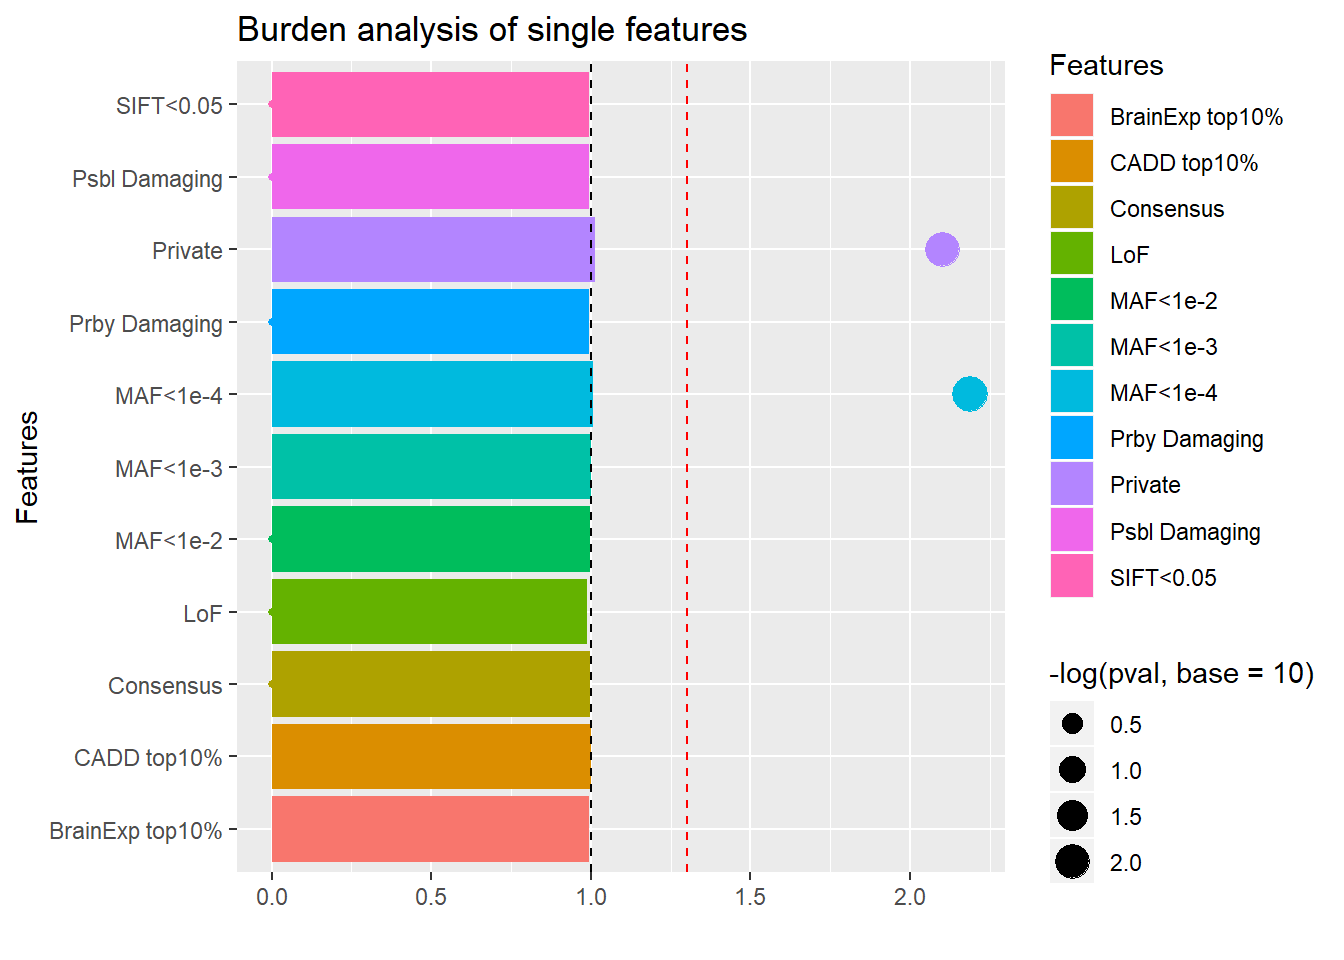
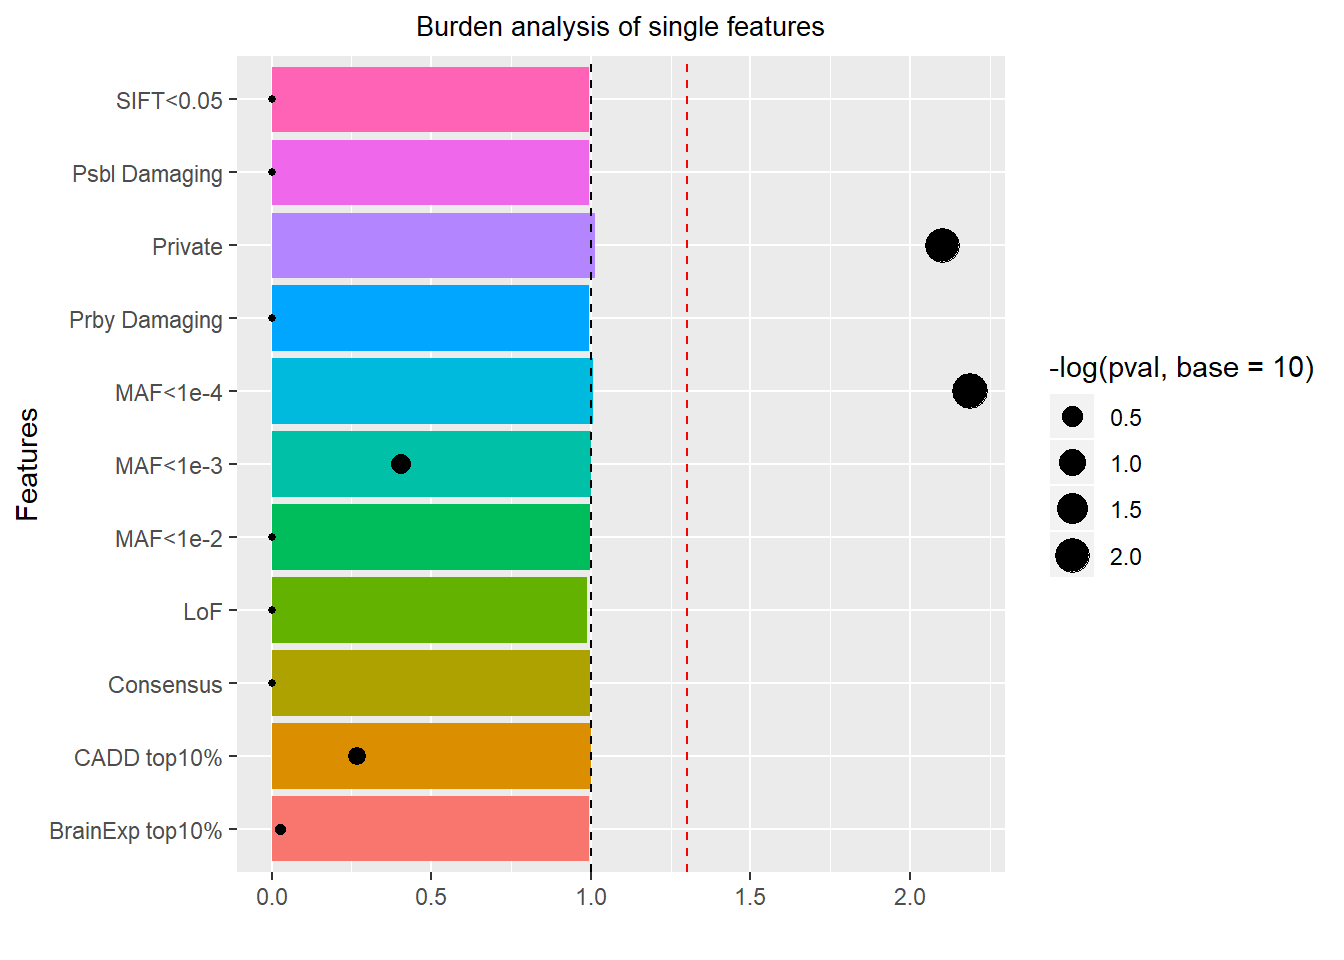
4/2/2019

diff --git a/docs/ASD.html b/docs/ASD.html
@@ -1037,15 +1037,18 @@ axis(2,  las=2, at=seq(1,11), labels=axis.labels, cex.axis=0.5)
 OR=summy[,1]; pval=summy[,2]
 result.summary=data.frame(Features=Features, OR=OR, pval=pval)
 
-#pdf(&quot;../../Figure/burden_single_feature.pdf&quot;)
+pdf(&quot;../../Figure/burden_single_feature.pdf&quot;)
 ggplot(result.summary, aes(x=Features, y=OR, fill = Features))+
   geom_bar(stat=&quot;identity&quot;)+
   ylab(&quot;&quot;)+xlab(&quot;Features&quot;)+ ggtitle(&quot;Burden analysis of single features&quot;)+
-  geom_point(aes(x=Features, y=-log(pval, base=10),color=Features, size=-log(pval, base=10)),
+  geom_point(aes(x=Features, y=-log(pval, base=10),fill=Features, size=-log(pval, base=10)),
            stat=&quot;identity&quot;)+coord_flip()+geom_hline(yintercept=1,linetype=&quot;dashed&quot;)+
-  geom_hline(yintercept=-log(0.05, base=10), linetype=&quot;dashed&quot;, color = &quot;red&quot;) </code></pre>
-<p><img src="ASD_files/figure-html/unnamed-chunk-5-1.png" width="672" /></p>
-<pre class="r"><code>#dev.off()</code></pre>
+  guides(fill = FALSE)+
+  geom_hline(yintercept=-log(0.05, base=10), linetype=&quot;dashed&quot;, color = &quot;red&quot;)+
+   theme(plot.title = element_text(hjust = 0.5, size=10)) #center the title 
+dev.off()</code></pre>
+<pre><code>## png 
+##   2</code></pre>
 </div>
 <div id="lof-in-different-gene-set" class="section level3">
 <h3>LoF in different gene set</h3>
@@ -1489,7 +1492,8 @@ NaN
 <h2>Combined feature analysis</h2>
 <div id="combination-of-gene-setafexon" class="section level3">
 <h3>combination of gene set+AF+exon</h3>
-<p><img src="ASD_files/figure-html/unnamed-chunk-8-1.png" width="672" /></p>
+<pre><code>## png 
+##   2</code></pre>
 <p>Burden test: one sided two sample Poisson test, MIRAGE: estimate parameters, then do likelihood ratio test.</p>
 <p><strong>Feature combinations: exon/LoF/missense+gene+MAF cutoff</strong></p>
 <pre class="r"><code>kable(comb.summ[,1:4], caption=&quot;Combined Annotations&quot;, &quot;html&quot;)%&gt;%

diff --git a/docs/simulation-study.html b/docs/simulation-study.html
@@ -353,7 +353,8 @@ div.tocify {
 <li>Parameter estimate (II): sample size effect on estimating <span class="math inline">\(\eta\)</span></li>
 </ul>
 <p>Parameter settings: N1=N0=1000, 3000, 5000, <span class="math inline">\(\alpha=\alpha_0=0.1\)</span>, <span class="math inline">\(\beta=2000, \beta_0=1000\)</span>. 100 genes, each having 1000 variants with <span class="math inline">\(\eta_i=0.1\)</span> risk variants, but the actural <span class="math inline">\(\eta_i\)</span> is varying for each generated data set because of the filtering. <span class="math inline">\(\bar{\gamma}=5\)</span>. For each fixed sample size, perform 100 independent runs.</p>
-<p><img src="simulation-study_files/figure-html/unnamed-chunk-6-1.png" width="672" /></p>
+<pre><code>## png 
+##   2</code></pre>
 <ul>
 <li>power comparison with other methods</li>
 </ul>
@@ -387,7 +388,8 @@ div.tocify {
 <p><strong>burden-adj: for every gene, compute p values for 3 variant categories, adjust p values by bonferroni correction and take the minimum</strong></p>
 <p><span class="math inline">\(\bar{\gamma}=3,3,5\)</span>. burden-comb: use Fisher method to comine p values from 3 independent tests.</p>
 <p><img src="simulation-study_files/figure-html/unnamed-chunk-18-1.png" width="672" /></p>
-<p><img src="simulation-study_files/figure-html/unnamed-chunk-19-1.png" width="672" /></p>
+<pre><code>## png 
+##   2</code></pre>
 <p><strong>Parameter estimate</strong></p>
 <p><span class="math inline">\(\beta_1=0.05,\beta_2=0.2, \beta_3=0.5, \delta=0.1\)</span></p>
 <p><img src="simulation-study_files/figure-html/unnamed-chunk-20-1.png" width="672" /></p>
